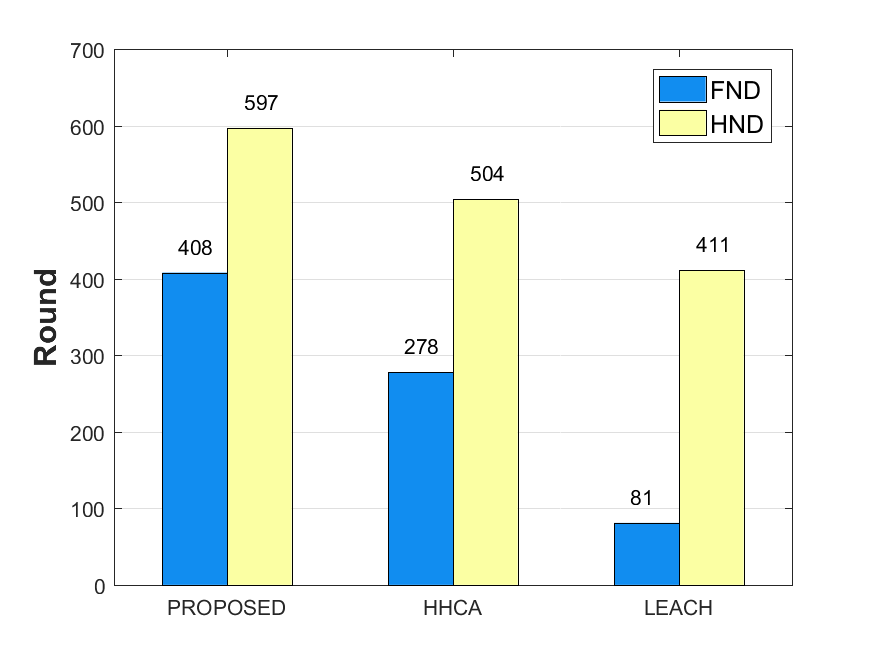
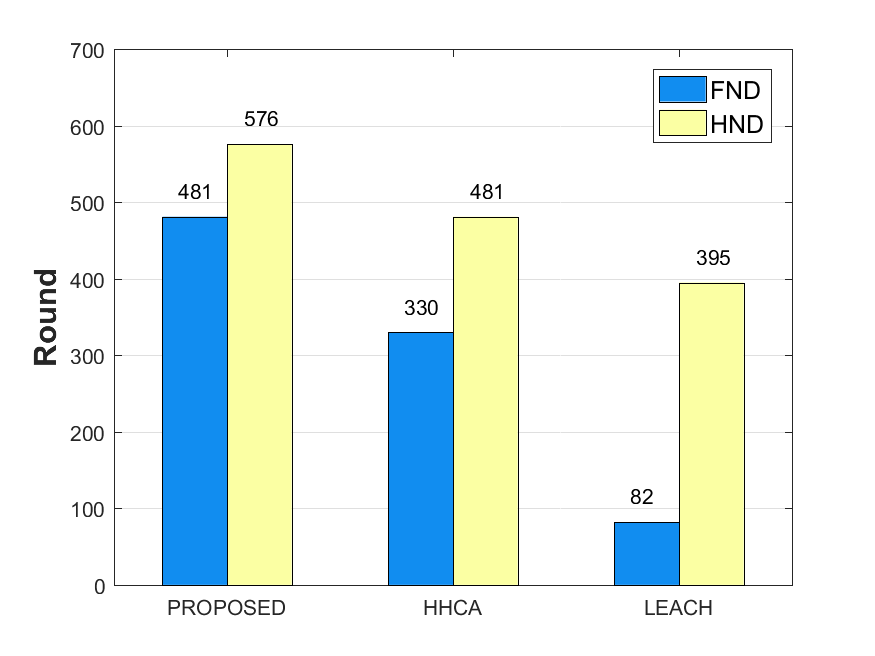
0711

diff --git a/dissEnergyRN.m b/dissEnergyRN.m
@@ -53,16 +53,24 @@ function Model = dissEnergyRN(Model, roundArch, netArch)
             energy = Model.nodeArch.node(i).energy;
 
             % energy for aggregation & Rx 
-            energy = energy - (packetLength * ERX * Model.nodeArch.node(i).child + ...
-                     packetLength * EDA * (Model.nodeArch.node(i).child + 1));
+%             energy = energy - (packetLength * ERX * Model.nodeArch.node(i).child + ...
+%                      packetLength * EDA * (Model.nodeArch.node(i).child + 1));
+            energy = energy - (packetLength * ERX * Model.nodeArch.node(i).child);      
 
             % energy for transferring
+%             if(Dist >= d0)
+%                  Model.nodeArch.node(i).energy = energy - ...
+%                      (ETX * packetLength + Emp * packetLength  * (Dist ^ 4));
+%             else
+%                  Model.nodeArch.node(i).energy = energy - ...
+%                      (ETX * packetLength + Efs * packetLength  * (Dist ^ 2));
+%             end
             if(Dist >= d0)
                  Model.nodeArch.node(i).energy = energy - ...
-                     (ETX * packetLength + Emp * packetLength  * (Dist ^ 4));
+                     (ETX * packetLength + Emp * packetLength * Model.nodeArch.node(i).child * (Dist ^ 4));
             else
                  Model.nodeArch.node(i).energy = energy - ...
-                     (ETX * packetLength + Efs * packetLength  * (Dist ^ 2));
+                     (ETX * packetLength + Efs * packetLength * Model.nodeArch.node(i).child * (Dist ^ 2));
             end
         end
     end
